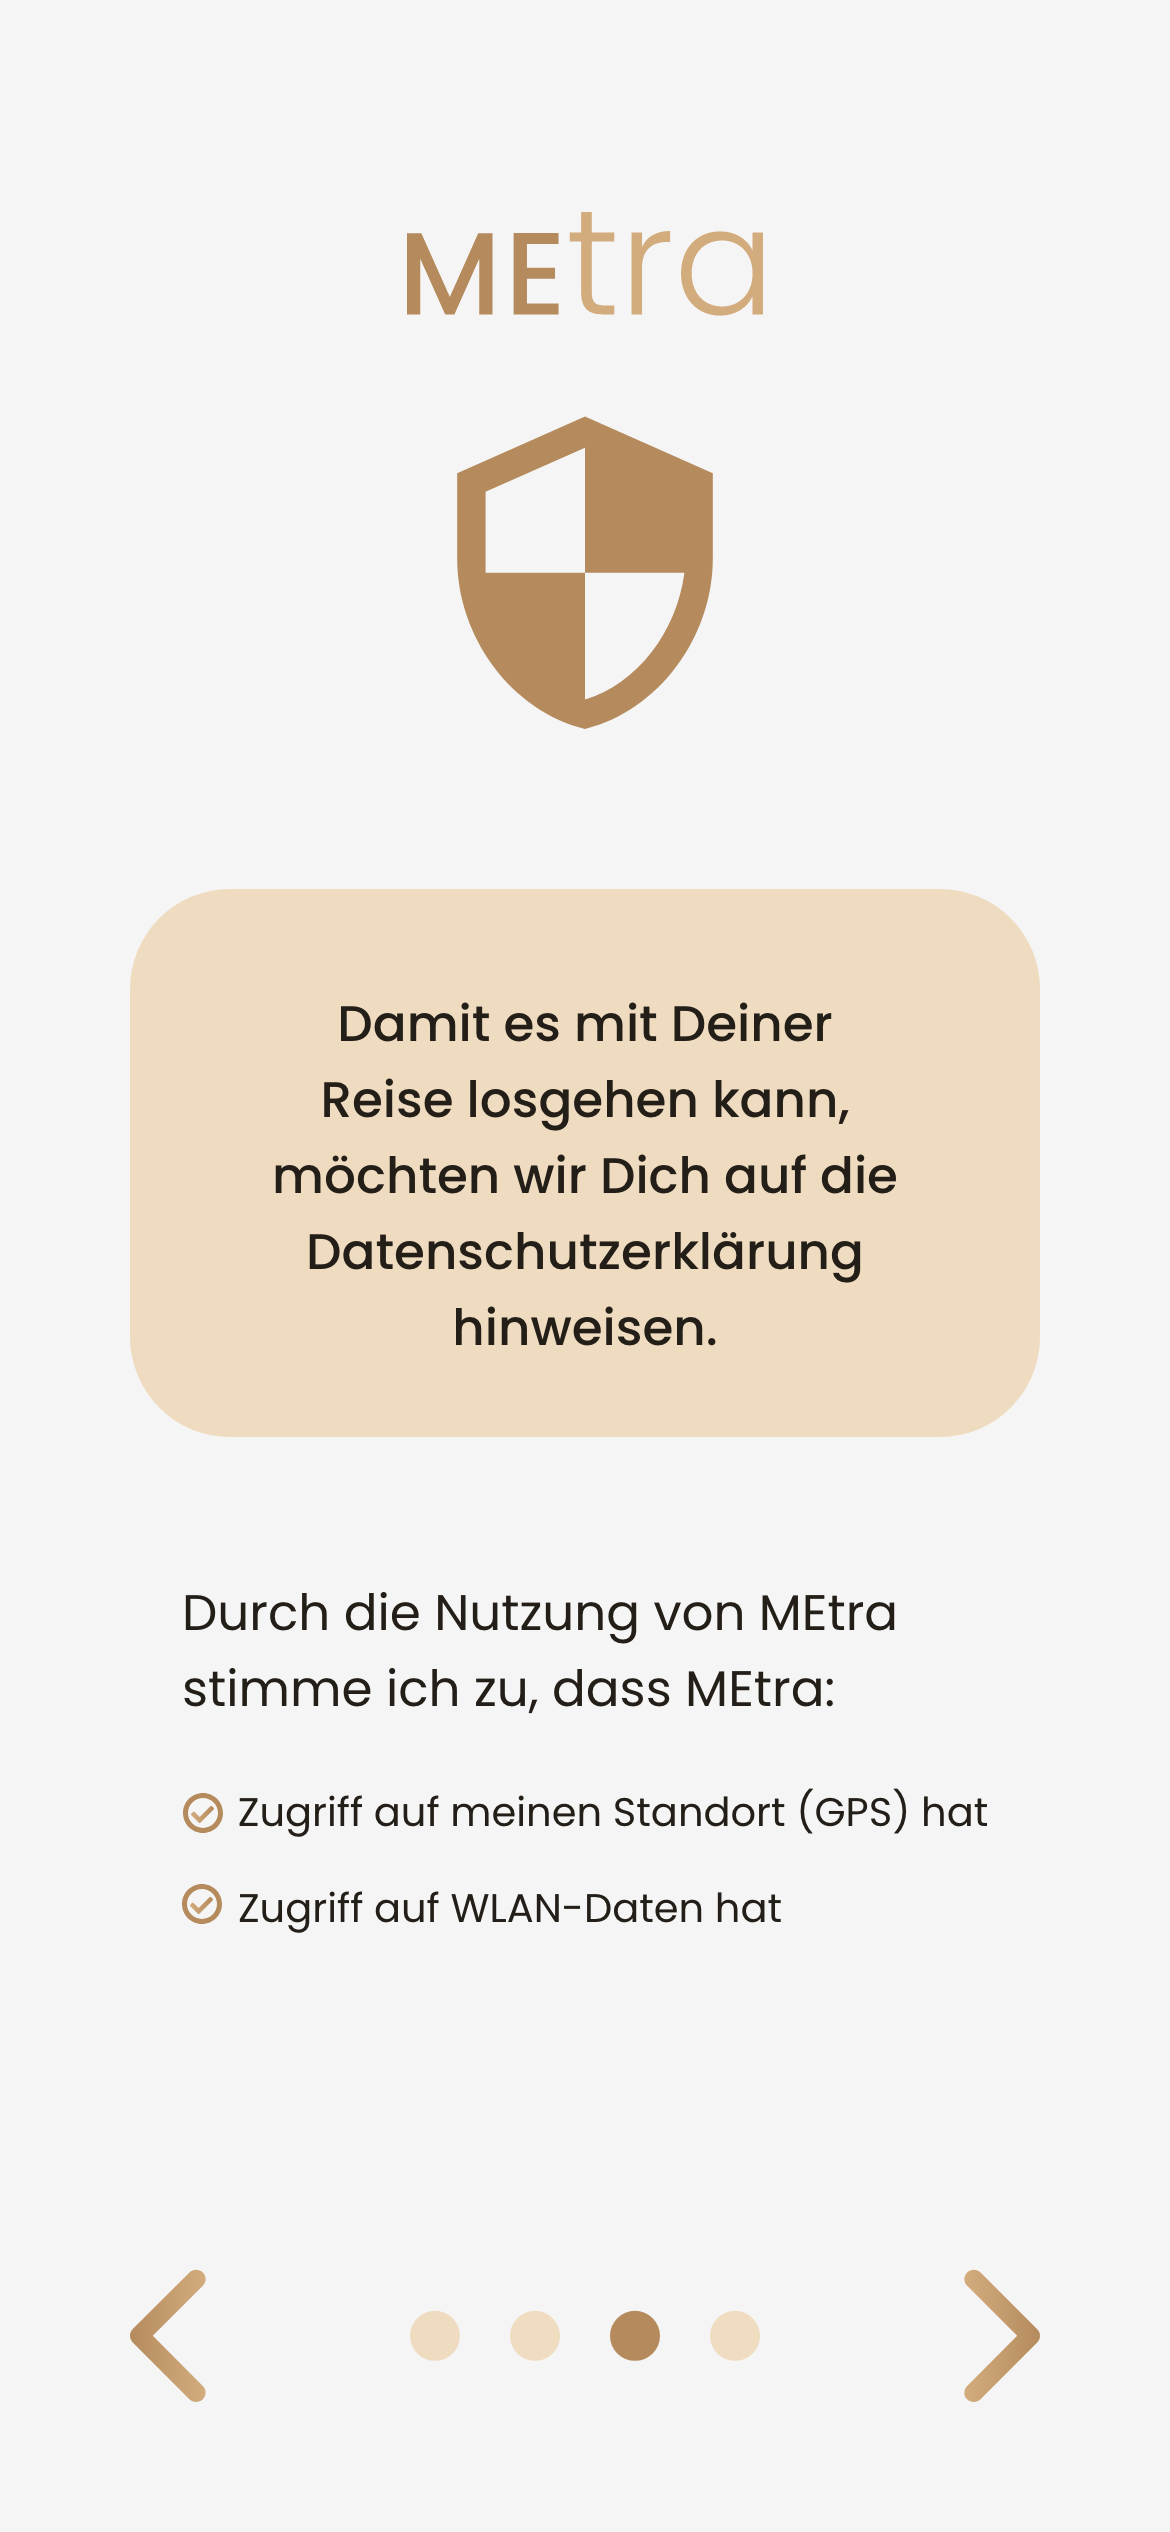
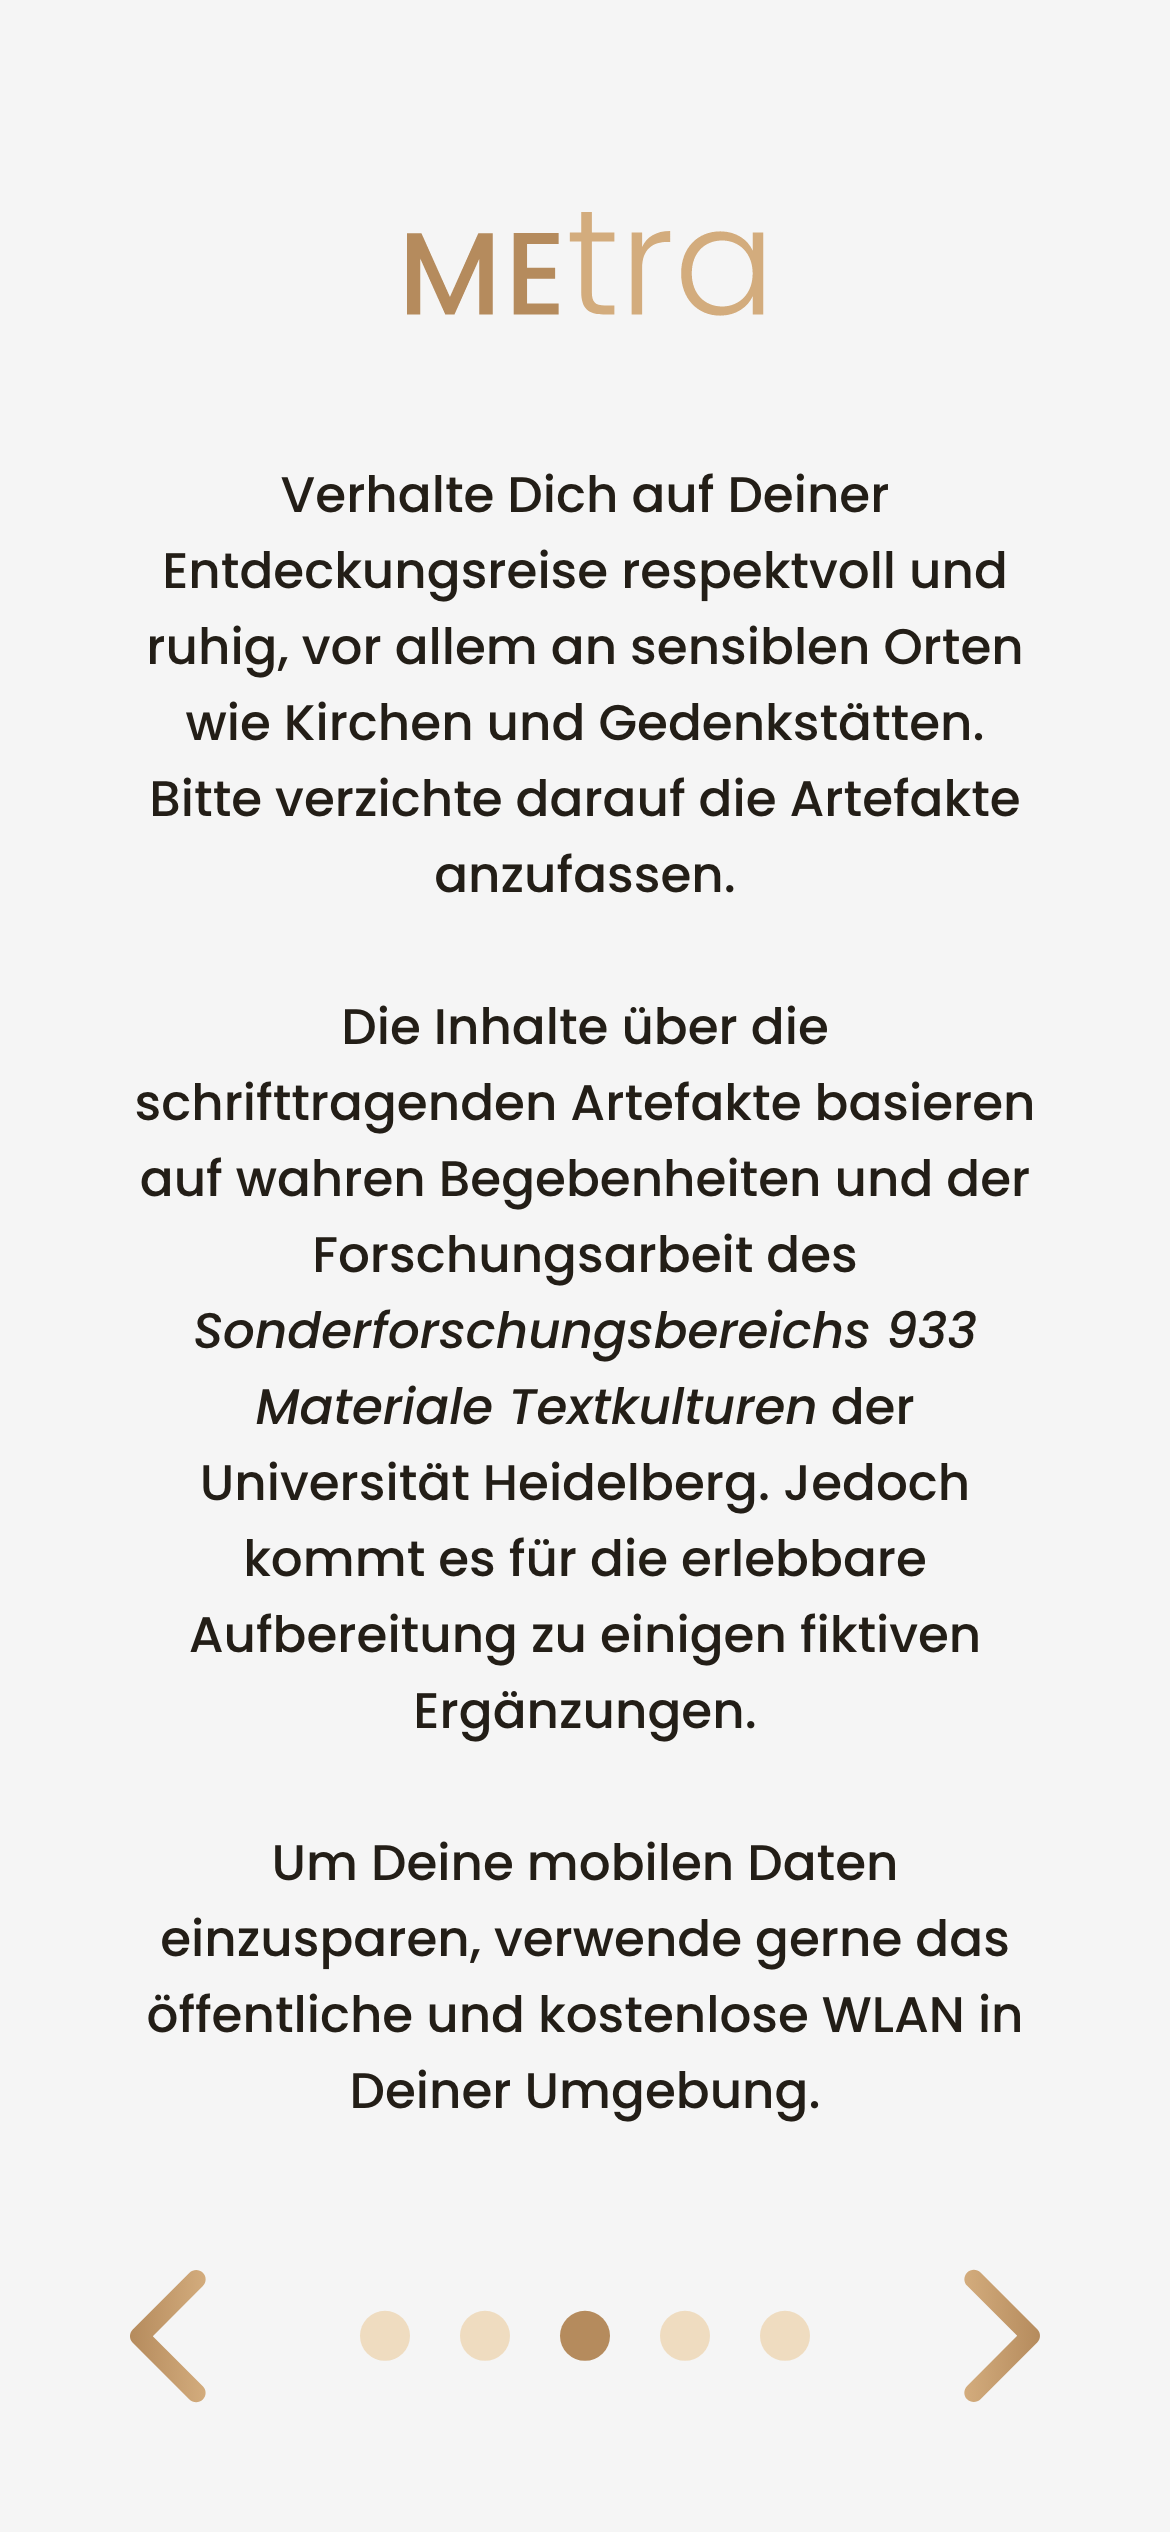
7.3.22 -  progress screen and settings screen update

Changed region(s): [[0.0923, 0.156, 0.8923, 0.8424], [0.3077, 0.9048, 0.7077, 0.936]]

diff --git a/app.js b/app.js
@@ -37,6 +37,7 @@ let images = {
     tut2: loadImage("./assets/img/tut2.png"),
     tut3: loadImage("./assets/img/tut3.png"),
     tut4: loadImage("./assets/img/tut4.png"),
+    tut5: loadImage("./assets/img/tut5.png"),
     home: loadImage("./assets/img/home.png"),
     progress: loadImage("./assets/img/progress.png"),
     settings: loadImage("./assets/img/settings.png"),
@@ -86,14 +87,14 @@ let buttonAccept = new Button(850, 2170, 200, 200, 1, 50, color(255, 255, 255), 
 let buttonDecline = new Button(120, 2170, 200, 200, 1, 50, color(255, 255, 255), "", "decline", images);
 let buttonTransparent1 = new Button(920, 2260, 150, 150, 1, 50, color(255, 255, 255), "", "transparent", images);
 let buttonTransparent2 = new Button(100, 2260, 150, 150, 1, 50, color(255, 255, 255), "", "transparent", images);
-let buttonName1 = new Button(120, 680, 580, 150, 1, 50, color(255, 255, 255), "O. Morata", "n1", images);
-let buttonName2 = new Button(120, 880, 580, 150, 1, 50, color(255, 255, 255), "H. Durlacher", "n2", images);
-let buttonName3 = new Button(120, 1080, 580, 150, 1, 50, color(255, 255, 255), "F. Gundolf", "n3", images);
-let buttonName4 = new Button(120, 1280, 580, 150, 1, 50, color(255, 255, 255), "G. E. Lessing", "n4", images);
-let buttonCheck1 = new Button(900, 680, 150, 150, 1, 50, color(255, 255, 255), "", "pCheckEmpty", images);
-let buttonCheck2 = new Button(900, 880, 150, 150, 1, 50, color(255, 255, 255), "", "pCheckEmpty", images);
-let buttonCheck3 = new Button(900, 1080, 150, 150, 1, 50, color(255, 255, 255), "", "pCheckEmpty", images);
-let buttonCheck4 = new Button(900, 1280, 150, 150, 1, 50, color(255, 255, 255), "", "pCheckEmpty", images);
+let buttonName1 = new Button(120, 890, 580, 150, 1, 50, color(255, 255, 255), "O. Morata", "n1", images);
+let buttonName2 = new Button(120, 1340, 580, 150, 1, 50, color(255, 255, 255), "H. Durlacher", "n2", images);
+let buttonName3 = new Button(120, 1790, 580, 150, 1, 50, color(255, 255, 255), "F. Gundolf", "n3", images);
+let buttonName4 = new Button(120, 2240, 580, 150, 1, 50, color(255, 255, 255), "G. E. Lessing", "n4", images);
+let buttonCheck1 = new Button(900, 890, 150, 150, 1, 50, color(255, 255, 255), "", "pCheckEmpty", images);
+let buttonCheck2 = new Button(900, 1340, 150, 150, 1, 50, color(255, 255, 255), "", "pCheckEmpty", images);
+let buttonCheck3 = new Button(900, 1790, 150, 150, 1, 50, color(255, 255, 255), "", "pCheckEmpty", images);
+let buttonCheck4 = new Button(900, 2240, 150, 150, 1, 50, color(255, 255, 255), "", "pCheckEmpty", images);
 let buttonQ1 = new Button(120, 1700, 940, 180, 1, 40, color(0, 0, 0), "", "q", images);
 let buttonQ2 = new Button(120, 1900, 940, 180, 1, 40, color(0, 0, 0), "", "q", images);
 let buttonQ3 = new Button(120, 2100, 940, 180, 1, 40, color(0, 0, 0), "", "q", images);
@@ -113,7 +114,7 @@ function tutorialScreen(){
     buttonTransparent2.display();
 
 
-    if (globalState === "tutorial4"){
+    if (globalState === "tutorial5"){
         button1.display();
     }
 }
@@ -721,11 +722,18 @@ function VideoOM31_32Screen(){
 
     if (frameCount > 2370){
         buttonQ1.display();
+        fill(181, 139, 93);
+        rect(0, 1900, 1170, 490);
         fill(255);
         textAlign(CENTER);
         textStyle(BOLD);
         textSize(50);
         text("Deine Antwort:", 585, 1600);
+        text("Begebe dich bitte als nächstes", 585, 2000);
+        text("zu den Stolpersteinen, um von", 585, 2080);
+        text("Hermann Durlacher Neues über", 585, 2160);
+        text("sein schrifttragendes Artefakt", 585, 2240);
+        text("zu erfahren.", 585, 2320);
         qButtonsActive = "true";
     }
 }
@@ -751,6 +759,7 @@ function settingsScreen(){
     background.display();
     buttonBack.display();
     button1.display();
+    button2.display();
 }
 
 
@@ -776,8 +785,6 @@ function mouseClicked(){
     //tutorial3 -> tutorial4
     if (buttonTransparent1.hitTest() && globalState === "tutorial3" && frameCount > 5) {
         globalState = "tutorial4";
-        button1.text = "Zum Startbildschirm";
-        button1.state = "check";
         frameCount = 0;
     }
 
@@ -785,10 +792,25 @@ function mouseClicked(){
     if (buttonTransparent2.hitTest() && globalState === "tutorial3" && frameCount > 5) {
         globalState = "tutorial2";
         frameCount = 0;
+    }    
+
+    //tutorial4 -> tutorial5
+    if (buttonTransparent1.hitTest() && globalState === "tutorial4" && frameCount > 5) {
+        globalState = "tutorial5";
+        button1.y = 1900;
+        button1.text = "Zum Startbildschirm";
+        button1.state = "check";
+        frameCount = 0;
     }
 
-    //tutorial4 -> home
-    if (button1.hitTest() && globalState === "tutorial4" && frameCount > 5) {
+    //tutorial4 -> tutorial3
+    if (buttonTransparent2.hitTest() && globalState === "tutorial4" && frameCount > 5) {
+        globalState = "tutorial3";
+        frameCount = 0;
+    }
+
+    //tutorial5 -> home
+    if (button1.hitTest() && globalState === "tutorial5" && frameCount > 5) {
         globalState = "home";
         frameCount = 0;
         button1.text = "Artefakteliste";
@@ -802,9 +824,9 @@ function mouseClicked(){
         button3.state = "settings";
     }
 
-    //tutorial4 -> tutorial3
-    if (buttonTransparent2.hitTest() && globalState === "tutorial4" && frameCount > 5) {
-        globalState = "tutorial3";
+    //tutorial5 -> tutorial4
+    if (buttonTransparent2.hitTest() && globalState === "tutorial5" && frameCount > 5) {
+        globalState = "tutorial4";
         frameCount = 0;
     }
 
@@ -1823,9 +1845,12 @@ function mouseClicked(){
     if (button3.hitTest() && globalState === "home" && frameCount > 5) {
         globalState = "settings";
         frameCount = 0;
-        button1.text = "App zurücksetzen";
+        button1.text = "Fortschritte zurücksetzen";
         button1.y = 700;
         button1.state = "default";
+        button2.text = "Tutorial ansehen";
+        button2.y = 950;
+        button2.state = "default";
     }
 
     //settings -> home
@@ -1841,7 +1866,7 @@ function mouseClicked(){
         button3.text = "Einstellungen";
         button3.y = 2060;
         button3.state = "settings";    
-    }
+    } 
 
     //settings -> reset
     if (button1.hitTest() && globalState === "settings" && frameCount > 5) {
@@ -1861,6 +1886,12 @@ function mouseClicked(){
         buttonCheck3.state = "pCheckEmpty";
         buttonCheck4.state = "pCheckEmpty";
     }
+
+    //settings -> tut1
+    if (button2.hitTest() && globalState === "settings" && frameCount > 5) {
+        globalState = "tutorial1";
+        frameCount = 0;
+    }       
 }
       
 
@@ -1885,6 +1916,11 @@ function draw(){
     if(globalState === "tutorial4"){
         tutorialScreen();
         background.state = "tut4";
+    }
+
+    if(globalState === "tutorial5"){
+        tutorialScreen();
+        background.state = "tut5";
     }
 
     if(globalState === "home"){

diff --git a/classes/button.js b/classes/button.js
@@ -133,43 +133,43 @@ export default class Button {
 
         if (this.state === "n1"){
             noStroke();
-            image(this.buttonName1, this.s * this.x, this.s * this.y, this.s * 580, this.s * 150);
+            image(this.buttonName1, this.s * this.x, this.s * this.y, this.s * 770, this.s * 150);
             fill(this.textColor);
             textAlign(LEFT);
             textStyle(NORMAL);
             textSize(this.s * this.textSize);
-            text(this.text, this.s * this.x + this.s * this.w / 4, this.s * this.y + this.s * this.h / 2 + 15);
+            text(this.text, this.s * this.x + this.s * this.w / 4.5, this.s * this.y + this.s * this.h / 2 + 15);
         }
         
         if (this.state === "n2"){
             noStroke();
-            image(this.buttonName2, this.s * this.x, this.s * this.y, this.s * 580, this.s * 150);
+            image(this.buttonName2, this.s * this.x, this.s * this.y, this.s * 770, this.s * 150);
             fill(this.textColor);
             textAlign(LEFT);
             textStyle(NORMAL);
             textFont("Helvetica");
             textSize(this.s * this.textSize);
-            text(this.text, this.s * this.x + this.s * this.w / 4, this.s * this.y + this.s * this.h / 2 + 15);
+            text(this.text, this.s * this.x + this.s * this.w / 4.5, this.s * this.y + this.s * this.h / 2 + 15);
         }
 
         if (this.state === "n3"){
             noStroke();
-            image(this.buttonName3, this.s * this.x, this.s * this.y, this.s * 580, this.s * 150);
+            image(this.buttonName3, this.s * this.x, this.s * this.y, this.s * 770, this.s * 150);
             fill(this.textColor);
             textAlign(LEFT);
             textStyle(NORMAL);
             textSize(this.s * this.textSize);
-            text(this.text, this.s * this.x + this.s * this.w / 4, this.s * this.y + this.s * this.h / 2 + 15);
+            text(this.text, this.s * this.x + this.s * this.w / 4.5, this.s * this.y + this.s * this.h / 2 + 15);
         }
 
         if (this.state === "n4"){
             noStroke();
-            image(this.buttonName4, this.s * this.x, this.s * this.y, this.s * 580, this.s * 150);
+            image(this.buttonName4, this.s * this.x, this.s * this.y, this.s * 770, this.s * 150);
             fill(this.textColor);
             textAlign(LEFT);
             textStyle(NORMAL);
             textSize(this.s * this.textSize);
-            text(this.text, this.s * this.x + this.s * this.w / 4, this.s * this.y + this.s * this.h / 2 + 15);
+            text(this.text, this.s * this.x + this.s * this.w / 4.5, this.s * this.y + this.s * this.h / 2 + 15);
         }
 
         if (this.state === "pCheck"){

diff --git a/classes/background.js b/classes/background.js
@@ -8,6 +8,7 @@ export default class Background {
         this.tut2 = images.tut2;
         this.tut3 = images.tut3;
         this.tut4 = images.tut4;
+        this.tut5 = images.tut5;
         this.home = images.home;
         this.progress = images.progress;
         this.art1 = images.art1;
@@ -36,6 +37,10 @@ export default class Background {
 
         if (this.state === "tut4"){
             image(this.tut4, this.s * this.x, this.s * this.y, this.s * 1170, this.s * 2532);
+        }
+
+        if (this.state === "tut5"){
+            image(this.tut5, this.s * this.x, this.s * this.y, this.s * 1170, this.s * 2532);
         }
 
         if (this.state === "home"){
